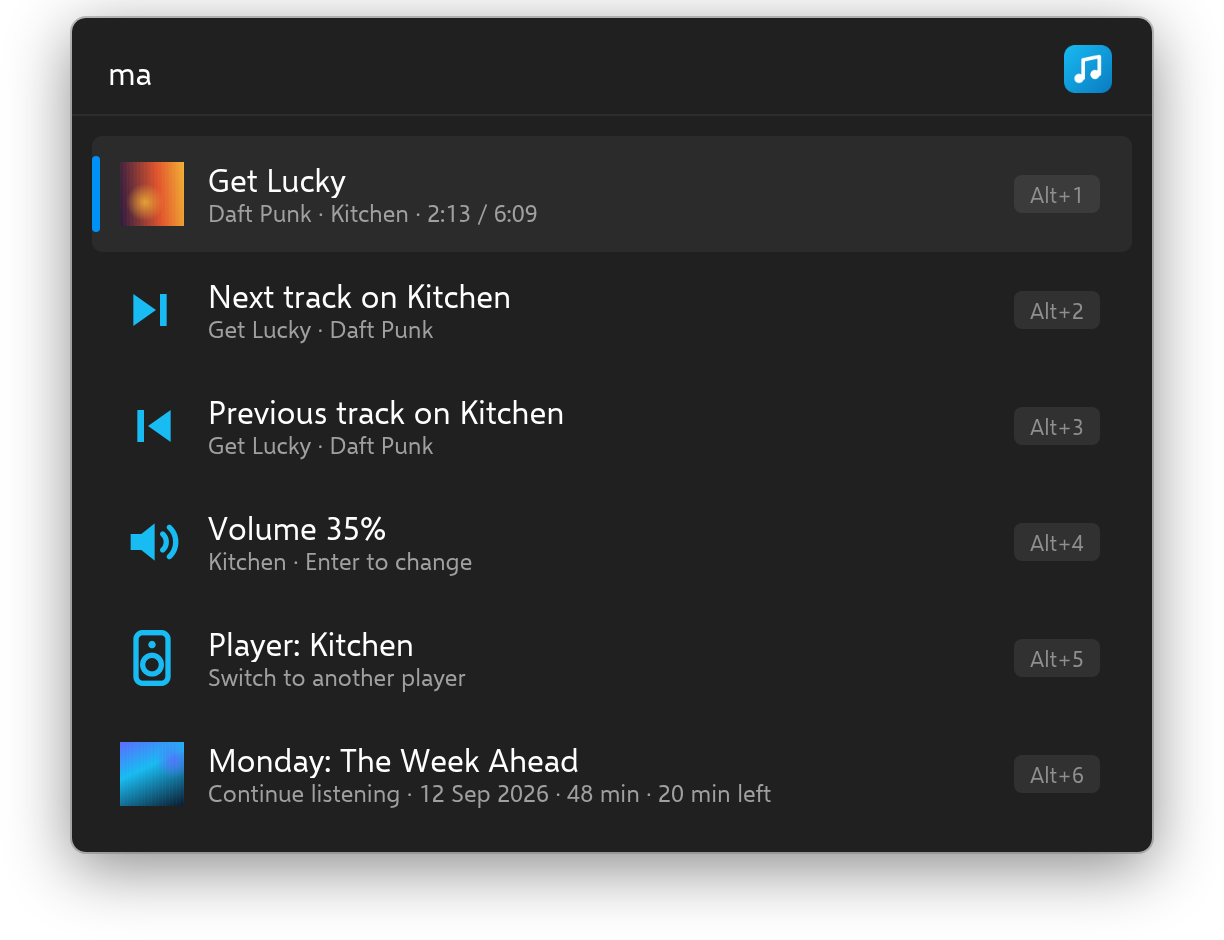
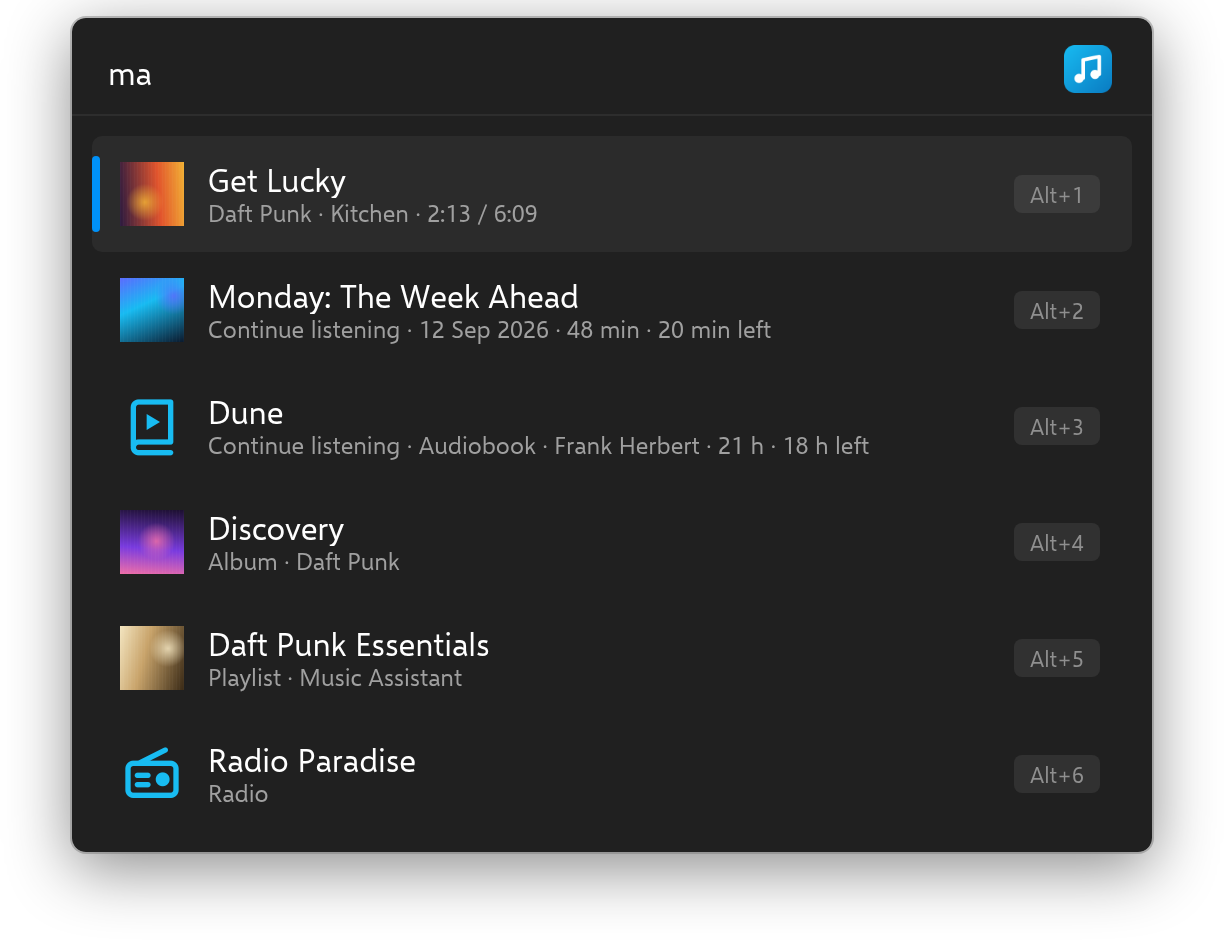
feat: move player controls, volume and player switching into the now playing menu
The dashboard now shows only the current track followed by continue
listening and recently played. Shift+Enter on the current track opens
play/pause, next, previous, stop, volume, mute and one entry per other
player to make it active.

diff --git a/src/plugin/results.py b/src/plugin/results.py
@@ -150,7 +150,7 @@ def now_playing_result(target: Target) -> Result:
     player = target.player
     playing = player.now_playing
     toggle = [player.player_id, player.name, "play_pause"]
-    menu = now_playing_menu(player)
+    menu = now_playing_menu(target)
     if playing is None:
         return Result(title=f"Nothing playing on {player.name}", subtitle=STATE_LABELS.get(player.state, ""),
                       icon=app.icon("music"), context_data=menu).add_action(actions.player_cmd, toggle)
@@ -165,9 +165,10 @@ def now_playing_result(target: Target) -> Result:
                   context_data=menu).add_action(actions.player_cmd, toggle)
 
 
-def now_playing_menu(player: Player) -> List[Result]:
+def now_playing_menu(target: Target) -> List[Result]:
+    player = target.player
     toggle = "pause" if player.playing else "play"
-    return [
+    controls = [
         transport_result(player, toggle),
         transport_result(player, "next"),
         transport_result(player, "previous"),
@@ -177,6 +178,7 @@ def now_playing_menu(player: Player) -> List[Result]:
         volume_step(player, "down"),
         mute_result(player),
     ]
+    return controls + [switch_to_result(other) for other in target.others]
 
 
 def transport_result(player: Player, command: str) -> Result:
@@ -207,9 +209,11 @@ def mute_result(player: Player) -> Result:
         actions.set_mute, [player.player_id, player.name, not muted])
 
 
-def switch_player_result(player: Player) -> Result:
-    return Result(title=f"Player: {player.name}", subtitle="Switch to another player",
-                  icon=_player_icon(player)).add_action(actions.change_query, [app.full_query("players ")])
+def switch_to_result(player: Player) -> Result:
+    playing = player.now_playing
+    subtitle = _join(STATE_LABELS.get(player.state, player.state.capitalize()), playing.title if playing else None)
+    return Result(title=f"Switch to {player.name}", subtitle=subtitle, icon=_player_icon(player)).add_action(
+        actions.set_active, [player.player_id])
 
 
 def message_result(title: str, subtitle: str = "", icon_name: str = "warning") -> Result:

diff --git a/tests/test_results.py b/tests/test_results.py
@@ -101,12 +101,15 @@ def test_now_playing_menu_has_controls_and_volume(fake):
     menu = result.context_data
     assert titles(menu) == [
         "Pause on Kitchen", "Next track on Kitchen", "Previous track on Kitchen", "Stop on Kitchen",
-        "Volume 35%", "Volume up", "Volume down", "Mute Kitchen",
+        "Volume 35%", "Volume up", "Volume down", "Mute Kitchen", "Switch to Office", "Switch to Downstairs",
     ]
     assert action(menu[0]) == ("player_cmd", ["kitchen", "Kitchen", "pause"])
     assert action(menu[4]) == ("change_query", ["ma vol "])
     assert action(menu[5]) == ("player_cmd", ["kitchen", "Kitchen", "volume_up"])
     assert action(menu[7]) == ("set_mute", ["kitchen", "Kitchen", True])
+    assert action(menu[8]) == ("set_active", ["office"])
+    assert menu[8].subtitle == "Idle"
+    assert menu[9].icon == app.icon("group")
 
 
 def test_now_playing_menu_when_paused_muted_or_idle(fake):
@@ -114,8 +117,10 @@ def test_now_playing_menu_when_paused_muted_or_idle(fake):
     menu = r.now_playing_result(r.Target(BASE, paused, ())).context_data
     assert titles(menu)[0] == "Play on Den"
     assert titles(menu)[-1] == "Unmute Den"
-    idle = r.now_playing_result(r.Target(BASE, OFFICE, ()))
-    assert titles(idle.context_data) == titles(r.now_playing_menu(OFFICE))
+    idle_target = r.Target(BASE, OFFICE, (KITCHEN,))
+    idle = r.now_playing_result(idle_target)
+    assert titles(idle.context_data) == titles(r.now_playing_menu(idle_target))
+    assert titles(idle.context_data)[-1] == "Switch to Kitchen"
     assert titles(idle.context_data)[0] == "Play on Office"
 
 
@@ -149,12 +154,6 @@ def test_volume_rows(fake):
     unknown = r.volume_row(Player("x", "X"), keyword_row=True)
     assert unknown.title == "Volume unknown"
     assert action(unknown)[0] == "keep_open"
-
-
-def test_switch_player_result(fake):
-    result = r.switch_player_result(KITCHEN)
-    assert result.title == "Player: Kitchen"
-    assert action(result) == ("change_query", ["ma players "])
 
 
 @pytest.mark.parametrize("error, title, method", [

diff --git a/tests/test_query.py b/tests/test_query.py
@@ -21,9 +21,9 @@ def test_dashboard(fake):
     fake.recents = [TRACK, STATION]
     results = run_query("")
     assert titles(results) == [
-        "One More Time", "Player: Kitchen", "Monday", "Dune", "One More Time", "Radio Paradise",
+        "One More Time", "Monday", "Dune", "One More Time", "Radio Paradise",
     ]
-    assert results[2].subtitle == "Continue listening · 12 Sep 2026 · 48 min · 20 min left"
+    assert results[1].subtitle == "Continue listening · 12 Sep 2026 · 48 min · 20 min left"
 
 
 def test_dashboard_uses_stored_active_player(fake):
@@ -183,7 +183,7 @@ def test_scores_leave_room_for_flow_selection_boost(fake):
 def test_dashboard_survives_failing_secondary_calls(fake):
     fake.failing = {"in_progress"}
     fake.recents = [TRACK]
-    assert titles(run_query("")) == ["One More Time", "Player: Kitchen", "One More Time"]
+    assert titles(run_query("")) == ["One More Time", "One More Time"]
 
 
 def test_episode_list_is_capped(fake):

diff --git a/src/plugin/musicassistant.py b/src/plugin/musicassistant.py
@@ -78,7 +78,7 @@ async def dashboard(client: MAClient, target: r.Target) -> List[Result]:
     if isinstance(recents, BaseException):
         plugin.logger.warning("Recently played unavailable: %s", recents)
         recents = []
-    rows = [r.now_playing_result(target), r.switch_player_result(target.player)]
+    rows = [r.now_playing_result(target)]
     rows += [r.media_result(item, target, f"Continue listening · {r.media_subtitle(item)}")
              for item in progress[:3]]
     return rows + media_list(recents, target, None)

diff --git a/README.md b/README.md
@@ -12,7 +12,7 @@ Search, play and control Music Assistant from Flow Launcher.
 ## Features
 
 * **Search everything.** Tracks, albums, artists, playlists, radio, podcasts and audiobooks from your library and your streaming providers.
-* **What's playing.** Type `ma` to see the current track, skip it, change the volume or switch players.
+* **What's playing.** Type `ma` to see the current track. Press `Shift+Enter` on it to skip, change the volume or switch players.
 * **Pick the speaker.** Choose which player or group gets the music. The plugin remembers it.
 * **Shift+Enter for more.** Play a result next, add it to the queue, start a radio from it or send it to another player.
 * **Podcasts and audiobooks.** Browse episodes, and pick up half-finished episodes and books where you left off.
@@ -29,15 +29,19 @@ Until both are set, `ma` shows a result that opens the settings page.
 
 ## Usage
 
-Type `ma` to see what's playing on your active player, with controls and what you listened to recently:
+Type `ma` to see what's playing on your active player and what you listened to recently. `Enter` on the current track plays or pauses it:
 
 ![The Music Assistant dashboard in Flow Launcher](.github/assets/dashboard-light.png#gh-light-mode-only)![The Music Assistant dashboard in Flow Launcher](.github/assets/dashboard-dark.png#gh-dark-mode-only)
+
+`Shift+Enter` on the current track opens the player controls, the volume and the other players:
+
+![Player controls: pause, next, previous, stop, volume, mute and switch to another player](.github/assets/controls-light.png#gh-light-mode-only)![Player controls: pause, next, previous, stop, volume, mute and switch to another player](.github/assets/controls-dark.png#gh-dark-mode-only)
 
 Type anything else to search. `Enter` plays the result on the active player:
 
 ![Searching Music Assistant from Flow Launcher](.github/assets/search-light.png#gh-light-mode-only)![Searching Music Assistant from Flow Launcher](.github/assets/search-dark.png#gh-dark-mode-only)
 
-`Shift+Enter` opens more options for a result:
+`Shift+Enter` on a result opens more options for it:
 
 ![Options for a track: play now, play next, add to queue, start radio, play on another player](.github/assets/menu-light.png#gh-light-mode-only)![Options for a track: play now, play next, add to queue, start radio, play on another player](.github/assets/menu-dark.png#gh-dark-mode-only)
 
@@ -53,7 +57,7 @@ Type anything else to search. `Enter` plays the result on the active player:
 
 | Query | What it does |
 | --- | --- |
-| `ma` | Now playing, controls, continue listening and recently played |
+| `ma` | Now playing, continue listening and recently played |
 | `ma <text>` | Search |
 | `ma "<text>"` | Search, even when the text is one of the commands below |
 | `ma players [name]` | List players and groups; pick one to make it active |
